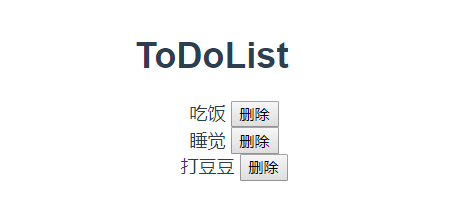
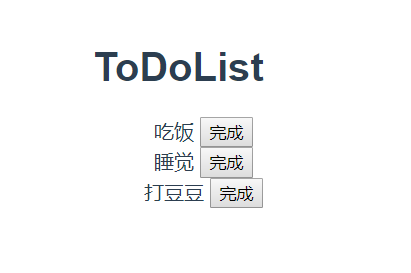
todolist 定稿

Changed region(s): [[0.3504, 0.4072, 0.6423, 0.8416], [0.2044, 0.19, 0.6423, 0.3258]]

diff --git a/JavaScript-library/Vue/Vue项目实战（一）——ToDoList.md b/JavaScript-library/Vue/Vue项目实战（一）——ToDoList.md
@@ -1,9 +1,9 @@
-@[vue-cli2搭建项目](https://github.com/danygitgit/document-library/blob/master/other-library/Git%E7%AC%94%E8%AE%B0/Git%E5%91%BD%E4%BB%A4%E5%85%A5%E9%97%A8.md)
+@[vue-cli2搭建待办事项项目](https://github.com/danygitgit/document-library/blob/master/JavaScript-library/Vue/Vue%E9%A1%B9%E7%9B%AE%E5%AE%9E%E6%88%98%EF%BC%88%E4%B8%80%EF%BC%89%E2%80%94%E2%80%94ToDoList.md)
 
-> create by **db** on **2019-1-10 16:28:10**   
+> create by **db** on **2019-3-10 16:28:10**   
 > Recently revised in **2019-4-1 17:06:13**
 
-&emsp;**Hello 小伙伴们，如果觉得本文还不错，麻烦点个赞或者给个 star，你们的赞和 star 是我前进的动力！[GitHub 地址](https://github.com/danygitgit/document-library/blob/master/JavaScript-library/Vue/vue-cli%E6%90%AD%E5%BB%BA%E9%A1%B9%E7%9B%AE.md)**
+&emsp;**Hello 小伙伴们，如果觉得本文还不错，麻烦点个赞或者给个 star，你们的赞和 star 是我前进的动力！[GitHub 地址](https://github.com/danygitgit/document-library/blob/master/JavaScript-library/Vue/Vue%E9%A1%B9%E7%9B%AE%E5%AE%9E%E6%88%98%EF%BC%88%E4%B8%80%EF%BC%89%E2%80%94%E2%80%94ToDoList.md)**
 
 &emsp;查阅网上诸多资料，并结合自己的学习经验，写下这篇Vue学习笔记，以记录自己的学习心得。现分享给大家，以供参考。
 
@@ -54,7 +54,7 @@ new Vue({
 
 &emsp;其中，`el`是Vue实例化的选项，提供一个在页面上已存在的 DOM 元素（#ToDoList）作为 Vue 实例的挂载目标。可以是 CSS 选择器，也可以是一个 HTMLElement 实例。
 
-&emsp;其中，`router`是Vue的路由。vue-router是Vue.js官方的路由插件，它和vue.js是深度集成的，适合用于构建单页面应用。vue的单页面应用是基于路由和组件的，路由用于设定访问路径，并将路径和组件映射起来。传统的页面应用，是用一些超链接来实现页面切换和跳转的。在vue-router单页面应用中，则是路径之间的切换，也就是组件的切换。路由模块的本质 就是建立起url和页面之间的映射关系。
+&emsp;`router`是Vue的路由。vue-router是Vue.js官方的路由插件，它和vue.js是深度集成的，适合用于构建单页面应用。vue的单页面应用是基于路由和组件的，路由用于设定访问路径，并将路径和组件映射起来。传统的页面应用，是用一些超链接来实现页面切换和跳转的。在vue-router单页面应用中，则是路径之间的切换，也就是组件的切换。路由模块的本质 就是建立起url和页面之间的映射关系。
 
 &emsp;至于我们为啥不能用a标签，这是因为用Vue做的都是单页应用，就相当于只有一个主的index.html页面，所以你写的<a></a>标签是不起作用的，你必须使用vue-router来进行管理。
 
@@ -66,7 +66,7 @@ new Vue({
 
 &emsp;`/src/router`中的`index.js`文件是Vue项目的路由配置文件。
 
-&emsp;要使用路由我们首先要在router/index.js文件中创建路由并配置路由映射。我们可以将vue-cli默认的`HelloWorld`组件改名为`ToDoList`,如下：
+&emsp;要使用路由我们首先要在`router/index.js`文件中创建路由并配置路由映射。我们可以将vue-cli默认的`HelloWorld`组件改名为`ToDoList`,如下：
 ```javascript
 // 引入路由模块并使用它
 import Vue from 'vue'
@@ -268,23 +268,18 @@ addNewItem () {
 
 &emsp;在data中，我们声明一个变量`id`默认为0，`items`默认为空，`newItem`也为空。输入框输入内容后，点击添加按钮items中push一条内容，其中包括id与title，然后id自增，并且最后将输入框清空。
 
-### 6、更改样式
-
-&emsp;ToDoList的基本功能以及结构都搭建好了，下面我们就给这个页面装修一下：
-```css
-
-```
-
 ## 6、总结
 
 &emsp;通过以上几个关键的知识点，我们最终就实现了ToDoList的基本功能，效果如下：
 
-**此处有图**
+<iframe height=400 width=500 src="../../public-repertory/img/vue-todolist-img/todolist.gif"></iframe>
+
+&emsp;如果喜欢，可以再加一些样式。
 
 &emsp;大家可以在后续的学习过程中加入更多的功能，巩固自己学到的知识。
 
 &emsp;路漫漫其修远兮，与诸君共勉。
 
-**后记：Hello 小伙伴们，如果觉得本文还不错，记得点个赞或者给个 star，你们的赞和 star 是我编写更多更丰富文章的动力！[GitHub 地址](https://github.com/danygitgit/document-library/blob/master/JavaScript-library/Vue/vue-cli%E6%90%AD%E5%BB%BA%E9%A1%B9%E7%9B%AE.md)**
+**后记：Hello 小伙伴们，如果觉得本文还不错，记得点个赞或者给个 star，你们的赞和 star 是我编写更多更丰富文章的动力！[GitHub 地址](https://github.com/danygitgit/document-library/blob/master/JavaScript-library/Vue/Vue%E9%A1%B9%E7%9B%AE%E5%AE%9E%E6%88%98%EF%BC%88%E4%B8%80%EF%BC%89%E2%80%94%E2%80%94ToDoList.md)**
 
 > <a rel="license" href="http://creativecommons.org/licenses/by-nc-sa/4.0/"><img alt="知识共享许可协议" style="border-width:0" src="https://user-gold-cdn.xitu.io/2018/12/23/167d9537f3e29c99?w=88&h=31&f=png&s=1888" /></a><br /><a xmlns:dct="http://purl.org/dc/terms/" property="dct:title">**db** 的文档库</a> 由 <a xmlns:cc="http://creativecommons.org/ns#" href="wzh" property="cc:attributionName" rel="cc:attributionURL">db</a> 采用 <a rel="license" href="http://creativecommons.org/licenses/by-nc-sa/4.0/">知识共享 署名-非商业性使用-相同方式共享 4.0 国际 许可协议</a>进行许可。<br />基于<a xmlns:dct="http://purl.org/dc/terms/" href="https://github.com/danygitgit" rel="dct:source">https://github.com/danygitgit</a>上的作品创作。<br />本许可协议授权之外的使用权限可以从 <a xmlns:cc="http://creativecommons.org/ns#" href="https://creativecommons.org/licenses/by-nc-sa/2.5/cn/" rel="cc:morePermissions">https://creativecommons.org/licenses/by-nc-sa/2.5/cn/</a> 处获得。
